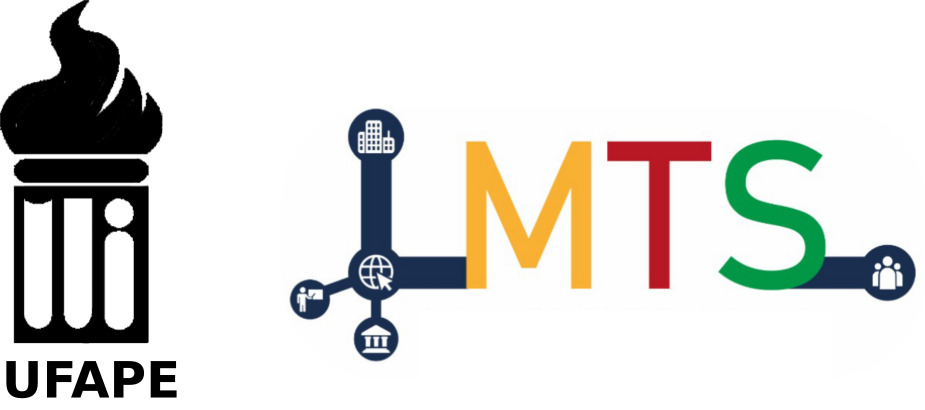
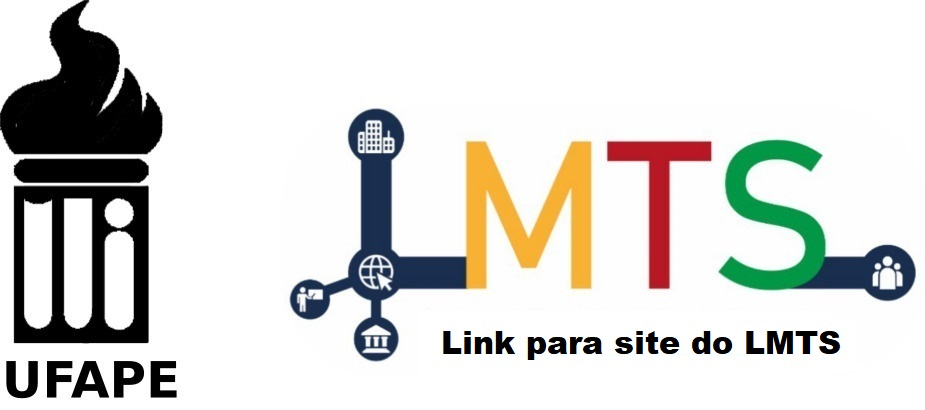
Finish Tela de Paulo Freire

diff --git a/lib/screens/paulofreire/paulo_freire.dart b/lib/screens/paulofreire/paulo_freire.dart
@@ -1,7 +1,6 @@
 import 'package:comunidadefreiriana/components/horizontal_spacer_box.dart';
 import 'package:comunidadefreiriana/components/vertical_spacer_box.dart';
 import 'package:comunidadefreiriana/constants/constants.dart';
-import 'package:flutter/cupertino.dart';
 import 'package:flutter/material.dart';
 import 'package:url_launcher/url_launcher.dart';
 
@@ -75,7 +74,7 @@ class _PauloFreireState extends State<PauloFreire> {
                           width: 180,
                           height: 180,
                           decoration: const BoxDecoration(
-                              color: Colors.grey,
+                              color: Colors.white,
                               borderRadius:
                                   BorderRadius.all(Radius.circular(15))),
                           child: Stack(
@@ -83,8 +82,8 @@ class _PauloFreireState extends State<PauloFreire> {
                               Center(
                                 child: Image.asset(
                                   'lib/assets/images/paulo_freire.jpg',
-                                  width: 180,
-                                  height: 180,
+                                  width: 140,
+                                  height: 140,
                                   fit: BoxFit.fill,
                                 ),
                               ),
@@ -111,7 +110,7 @@ class _PauloFreireState extends State<PauloFreire> {
                               width: 180,
                               height: 180,
                               decoration: const BoxDecoration(
-                                  color: Colors.grey,
+                                  color: Colors.white,
                                   borderRadius:
                                       BorderRadius.all(Radius.circular(15))),
                               child: Wrap(
@@ -123,16 +122,12 @@ class _PauloFreireState extends State<PauloFreire> {
                                       height: 140,
                                     ),
                                   ),
-                                  Row(
-                                    mainAxisAlignment: MainAxisAlignment.center,
-                                    children: const [
-                                      Center(
-                                        child: Text(
-                                          'Linha do Tempo',
-                                          style: kTextIcons,
-                                        ),
-                                      ),
-                                    ],
+                                  Container(
+                                    alignment: Alignment.bottomCenter,
+                                    child: const Text(
+                                      'Linha do Tempo',
+                                      style: kTextIcons,
+                                    ),
                                   ),
                                 ],
                               ),
@@ -155,7 +150,7 @@ class _PauloFreireState extends State<PauloFreire> {
                           width: 180,
                           height: 180,
                           decoration: const BoxDecoration(
-                              color: Colors.grey,
+                              color: Colors.white,
                               borderRadius:
                                   BorderRadius.all(Radius.circular(15))),
                           child: Center(
@@ -168,16 +163,12 @@ class _PauloFreireState extends State<PauloFreire> {
                                     height: 130,
                                   ),
                                 ),
-                                Row(
-                                  mainAxisAlignment: MainAxisAlignment.center,
-                                  children: const [
-                                    Center(
-                                      child: Text(
-                                        'Acervo Digital',
-                                        style: kTextIcons,
-                                      ),
-                                    ),
-                                  ],
+                                Container(
+                                  alignment: Alignment.bottomCenter,
+                                  child: const Text(
+                                    'Acervo Digital',
+                                    style: kTextIcons,
+                                  ),
                                 ),
                               ],
                             ),
@@ -194,7 +185,7 @@ class _PauloFreireState extends State<PauloFreire> {
                           width: 180,
                           height: 180,
                           decoration: const BoxDecoration(
-                              color: Colors.grey,
+                              color: Colors.white,
                               borderRadius:
                                   BorderRadius.all(Radius.circular(15))),
                           child: Center(
@@ -206,16 +197,12 @@ class _PauloFreireState extends State<PauloFreire> {
                                   color: Colors.red,
                                   size: 110,
                                 )),
-                                Row(
-                                  mainAxisAlignment: MainAxisAlignment.center,
-                                  children: const [
-                                    Center(
-                                      child: Text(
-                                        'Biblioteca',
-                                        style: kTextIcons,
-                                      ),
-                                    ),
-                                  ],
+                                Container(
+                                  alignment: Alignment.bottomCenter,
+                                  child: const Text(
+                                    'Biblioteca',
+                                    style: kTextIcons,
+                                  ),
                                 ),
                               ],
                             ),
@@ -237,7 +224,7 @@ class _PauloFreireState extends State<PauloFreire> {
                           width: 180,
                           height: 180,
                           decoration: const BoxDecoration(
-                              color: Colors.grey,
+                              color: Colors.white,
                               borderRadius:
                                   BorderRadius.all(Radius.circular(15))),
                           child: Center(
@@ -250,16 +237,12 @@ class _PauloFreireState extends State<PauloFreire> {
                                     height: 120,
                                   ),
                                 ),
-                                Row(
-                                  mainAxisAlignment: MainAxisAlignment.center,
-                                  children: const [
-                                    Center(
-                                      child: Text(
-                                        'Glossário',
-                                        style: kTextIcons,
-                                      ),
-                                    ),
-                                  ],
+                                Container(
+                                  alignment: Alignment.bottomCenter,
+                                  child: const Text(
+                                    'Glossário',
+                                    style: kTextIcons,
+                                  ),
                                 ),
                               ],
                             ),
@@ -276,21 +259,22 @@ class _PauloFreireState extends State<PauloFreire> {
                           width: 180,
                           height: 180,
                           decoration: const BoxDecoration(
-                              color: Colors.grey,
+                              color: Colors.white,
                               borderRadius:
                                   BorderRadius.all(Radius.circular(15))),
                           child: Center(
                             child: Wrap(
-                              children: const [
-                                Center(
+                              children: [
+                                const Center(
                                     child: Icon(
                                   Icons.call,
                                   color: Colors.red,
                                   size: 110,
                                 )),
-                                Center(
-                                  child: Text(
-                                    'Contato',
+                                Container(
+                                  alignment: Alignment.bottomCenter,
+                                  child: const Text(
+                                    'Telefone',
                                     style: kTextIcons,
                                   ),
                                 ),
@@ -328,24 +312,14 @@ class _PauloFreireState extends State<PauloFreire> {
                         ),
                       ],
                     ),
-                    const HorizontalSpacerBox(size: SpacerSize.large),
-                    Row(
-                      mainAxisAlignment: MainAxisAlignment.center,
-                      children: [
-                        Image.asset(
-                          'lib/assets/images/logo_ufape.png',
-                          width: size.width * 0.08,
-                        ),
-                      ],
-                    ),
                     const HorizontalSpacerBox(size: SpacerSize.medium),
                     InkWell(
                       child: Row(
                         mainAxisAlignment: MainAxisAlignment.end,
                         children: [
                           Image.asset(
-                            'lib/assets/images/logo_lmts.png',
-                            width: size.width * 0.3,
+                            'lib/assets/images/icone_ufape_lmts.jpg',
+                            width: size.width * 0.5,
                           ),
                         ],
                       ),

diff --git a/lib/screens/mapa/maps.dart b/lib/screens/mapa/maps.dart
@@ -10,7 +10,6 @@ import 'package:comunidadefreiriana/constants/constants.dart';
 import 'package:comunidadefreiriana/screens/cadastro/cadastro.dart';
 import 'package:comunidadefreiriana/screens/cadastro/cadastro_controller.dart';
 import 'package:comunidadefreiriana/screens/mapa/maps_controller.dart';
-import 'package:flutter/foundation.dart';
 import 'package:flutter/material.dart';
 import 'package:geocoding/geocoding.dart';
 import 'package:get/get.dart';
@@ -32,8 +31,9 @@ class Maps extends StatefulWidget {
 }
 
 class _MapsState extends State<Maps> {
+  static const kGoogleApiKey = 'AIzaSyCyitTSqdXnZnYAcBj_oQd7Ho7qcR5BvFU';
+  final homeScaffoldKey = GlobalKey<ScaffoldState>();
   String path = '';
-  String googleApikey = "AIzaSyCyitTSqdXnZnYAcBj_oQd7Ho7qcR5BvFU";
   String location = "Procurar localidade";
   CameraPosition? cameraPosition;
   List<LatLng> tappedPoints = [];
@@ -121,7 +121,7 @@ class _MapsState extends State<Maps> {
                             Text(
                               model.endereco.toString(),
                               style: const TextStyle(
-                                  fontSize: 22,
+                                  fontSize: 20,
                                   fontWeight: FontWeight.w600,
                                   color: Colors.red),
                             ),
@@ -359,65 +359,6 @@ class _MapsState extends State<Maps> {
                 },
               );
             })),
-        Positioned(
-          top: 10,
-          child: InkWell(
-              onTap: () async {
-                var place = await PlacesAutocomplete.show(
-                    context: context,
-                    apiKey: googleApikey,
-                    mode: Mode.overlay,
-                    types: [],
-                    strictbounds: false,
-                    components: [Component(Component.country, 'br')],
-                    //google_map_webservice package
-                    onError: (err) {
-                      if (kDebugMode) {
-                        print(err);
-                      }
-                    });
-
-                if (place != null) {
-                  setState(() {
-                    location = place.description.toString();
-                  });
-
-                  //form google_maps_webservice package
-                  final plist = GoogleMapsPlaces(
-                    apiKey: googleApikey,
-                    apiHeaders: await const GoogleApiHeaders().getHeaders(),
-                    //from google_api_headers package
-                  );
-                  String placeid = place.placeId ?? "0";
-                  final detail = await plist.getDetailsByPlaceId(placeid);
-                  final geometry = detail.result.geometry!;
-                  final lat = geometry.location.lat;
-                  final long = geometry.location.lng;
-                  var newlatlang = LatLng(lat, long);
-
-                  //move map camera to selected place with animation
-                  MapsController().mapController.animateCamera(
-                      CameraUpdate.newCameraPosition(
-                          CameraPosition(target: newlatlang, zoom: 17)));
-                }
-              },
-              child: Padding(
-                padding: const EdgeInsets.all(15),
-                child: Card(
-                  child: Container(
-                      padding: const EdgeInsets.all(0),
-                      width: MediaQuery.of(context).size.width - 40,
-                      child: ListTile(
-                        title: Text(
-                          location,
-                          style: const TextStyle(fontSize: 18),
-                        ),
-                        trailing: const Icon(Icons.search),
-                        dense: true,
-                      )),
-                ),
-              )),
-        ),
       ]),
       floatingActionButton: Center(
         child: Padding(

diff --git a/lib/screens/home/home_screen.dart b/lib/screens/home/home_screen.dart
@@ -177,23 +177,13 @@ class _HomeScreenState extends State<HomeScreen> {
                     ],
                   ),
                   const Spacer(),
-                  Row(
-                    mainAxisAlignment: MainAxisAlignment.center,
-                    children: [
-                      Image.asset(
-                        'lib/assets/images/logo_ufape.png',
-                        width: size.width * 0.1,
-                      ),
-                    ],
-                  ),
-                  const Spacer(),
                   InkWell(
                     child: Row(
                       mainAxisAlignment: MainAxisAlignment.end,
                       children: [
                         Image.asset(
-                          'lib/assets/images/logo_lmts.png',
-                          width: size.width * 0.3,
+                          'lib/assets/images/icone_ufape_lmts.jpg',
+                          width: size.width * 0.5,
                         ),
                       ],
                     ),
@@ -205,18 +195,6 @@ class _HomeScreenState extends State<HomeScreen> {
                   ),
                 ],
               ),
-              Row(
-                children: const [
-                  Spacer(),
-                  Icon(Icons.expand_less),
-                  Text(
-                    'Link para site do LMTS.',
-                    style: TextStyle(
-                        decoration: TextDecoration.underline,
-                        color: Colors.blue),
-                  ),
-                ],
-              )
             ],
           ),
         ),

diff --git a/lib/screens/mapa/maps_controller.dart b/lib/screens/mapa/maps_controller.dart
@@ -9,12 +9,13 @@ class MapsController with ChangeNotifier {
   // ignore: unused_field
   late GoogleMapController mapController;
   get mapsController => mapController;
-  
 
   onMapCreated(GoogleMapController gmc) async {
     mapController = gmc;
     getPosicao();
-}
+  }
+
+  
 
   getPosicao() async {
     try {

diff --git a/lib/constants/constants.dart b/lib/constants/constants.dart
@@ -42,7 +42,7 @@ const TextStyle kTitleStyles = TextStyle(
 );
 
 const TextStyle kTextIcons = TextStyle(
-  fontSize: 16,
+  fontSize: 18,
   fontWeight: FontWeight.bold,
   color: Colors.black,
 );
